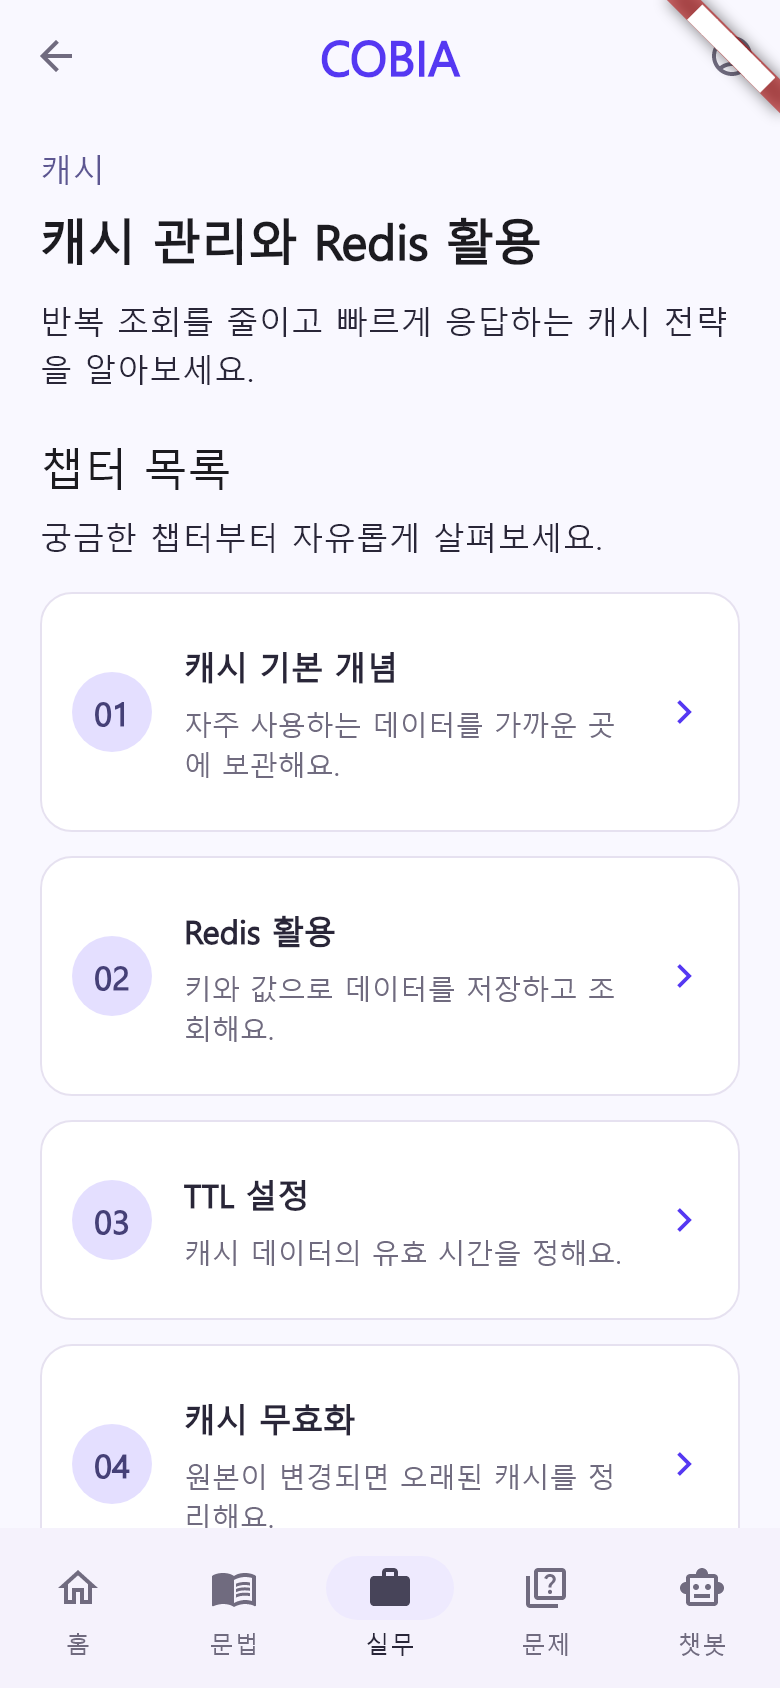
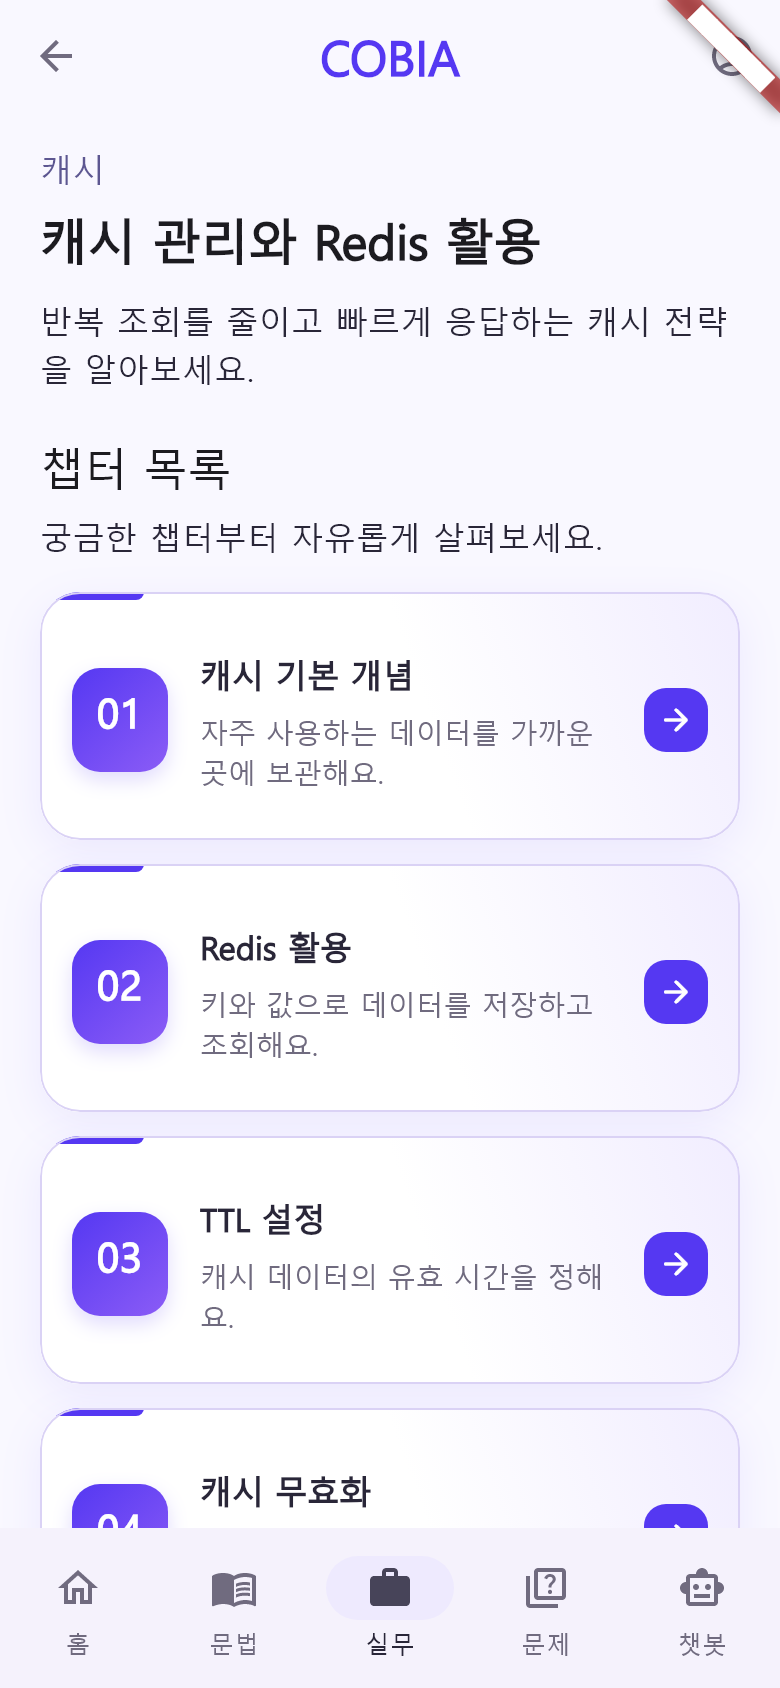
style: 실무 챕터 카드 번호 및 화살표 강조

diff --git a/lib/features/practical/presentation/practical_chapters_screen.dart b/lib/features/practical/presentation/practical_chapters_screen.dart
@@ -1,3 +1,4 @@
+import '../../../app/widgets/learning_card.dart';
 import '../../../app/app_ui_tokens.dart';
 
 import 'package:flutter/material.dart';
@@ -41,16 +42,14 @@ class PracticalChaptersScreen extends StatelessWidget {
         const Text('궁금한 챕터부터 자유롭게 살펴보세요.'),
         const SizedBox(height: 16),
         for (var i = 0; i < topic.chapters.length; i++)
-          Card(
-            color: Colors.white,
-            elevation: 0,
+          LearningCard(
             margin: const EdgeInsets.only(bottom: 12),
             child: ListTile(
               contentPadding: const EdgeInsets.symmetric(
                 horizontal: 16,
                 vertical: 12,
               ),
-              leading: CircleAvatar(child: Text('${i + 1}'.padLeft(2, '0'))),
+              leading: ChapterNumber('${i + 1}'.padLeft(2, '0')),
               title: Text(
                 topic.chapters[i].title,
                 style: const TextStyle(fontWeight: FontWeight.bold),
@@ -59,7 +58,7 @@ class PracticalChaptersScreen extends StatelessWidget {
                 padding: const EdgeInsets.only(top: 8),
                 child: Text(topic.chapters[i].summary),
               ),
-              trailing: const Icon(Icons.chevron_right),
+              trailing: const LearningCardArrow(),
               onTap: () => context.pushNamed(
                 AppRouteNames.practicalChapter,
                 pathParameters: {
